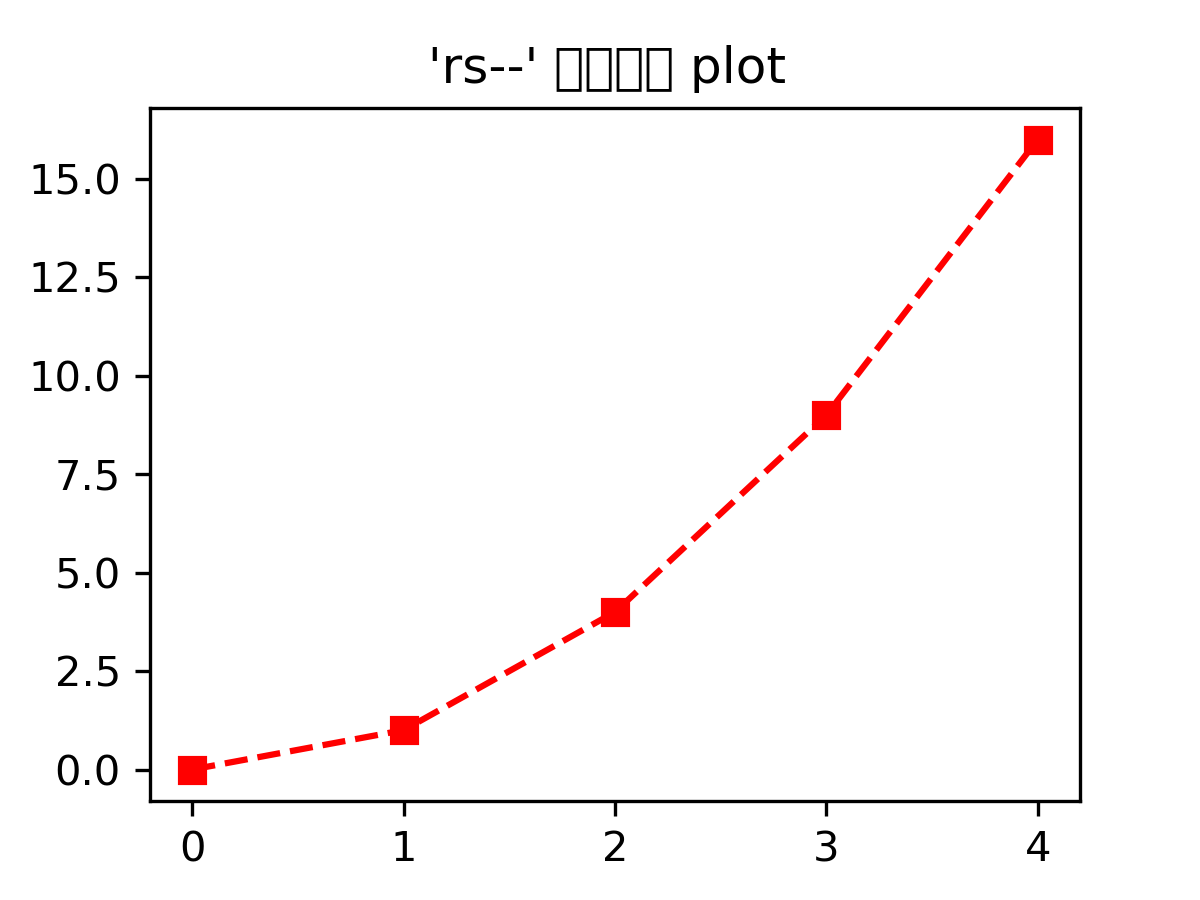
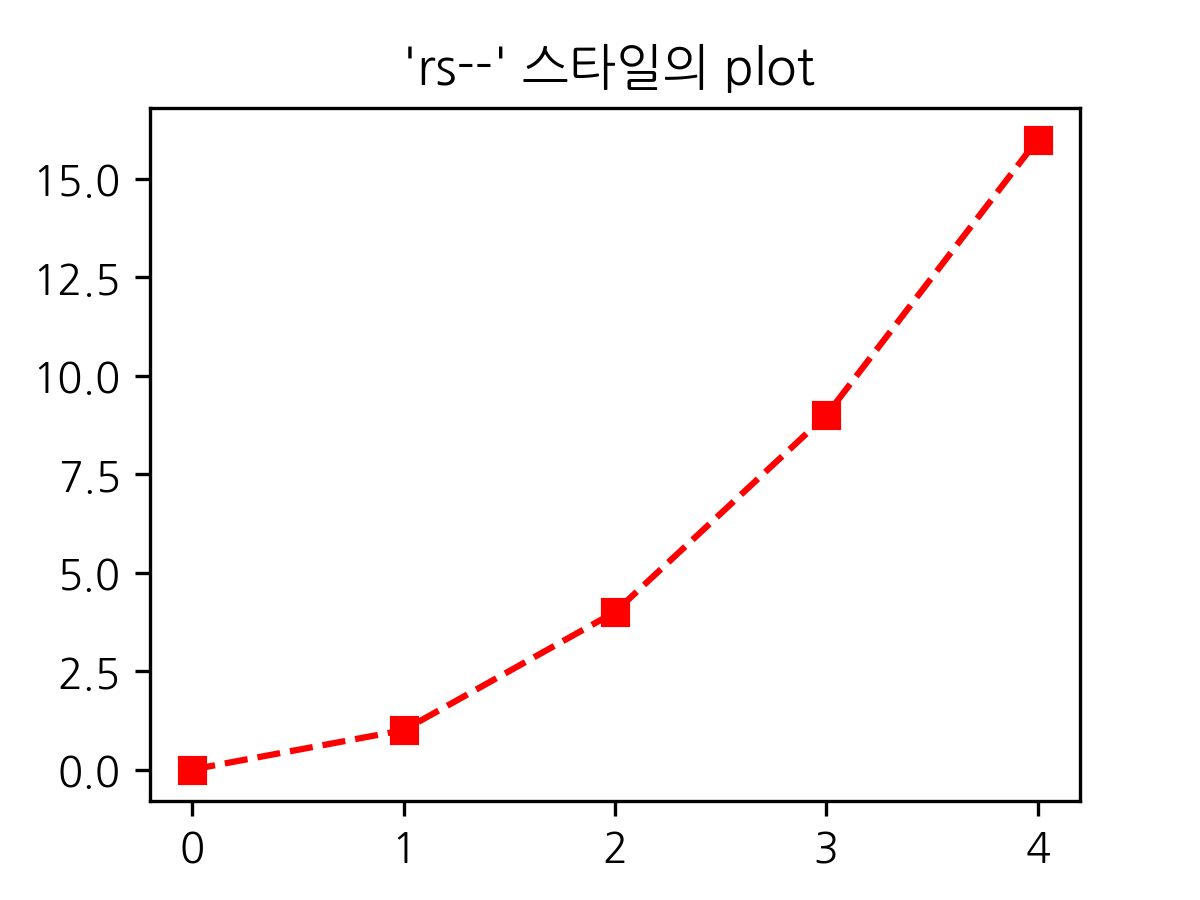
code update

diff --git a/templates/multi_image.html b/templates/multi_image.html
@@ -11,12 +11,12 @@
         <img src="{{url_for('static', filename='img1.png')}}" alt="image1"
         width={{width}}, height={{hieght}}>
       </div>
-      <div class="column">
-	<img src="{{url_for('static', filename='img2.png')}}" alt="image1"
+      <div class="column">     
+	<img src="{{url_for('static', filename='img2.png')}}" alt="image2"
         width={{width}}, height={{hieght}}>
       </div>
       <div class="column">
-        <img src="static/img3.png" alt="image1"
+	<img src="{{url_for('static', filename='img3.png')}}" alt="image3"
         width={{width}}, height={{hieght}}>
       </div>
     </div>

diff --git a/hello.py b/hello.py
@@ -4,7 +4,6 @@ from io import BytesIO
 import numpy as np 
 import time 
 
-## macOS의 경우 아래 순서에 따라서 library를 import해줘야 에러없이 잘 됩니다. 
 import matplotlib as mpl
 mpl.use('Agg')
 import matplotlib.pyplot as plt
@@ -75,7 +74,7 @@ def fig1(xsize, ysize):
   """
   file로 저장하는 것이 아니라 binary object에 저장해서 그대로 file을 넘겨준다고 생각하면 됨
   """
-  img1 = BytesIO()
+  #img1 = BytesIO()
   plt.savefig('static/img1.png', format='png', dpi=300)
   #img1.seek(0)## object를 읽었기 때문에 처음으로 돌아가줌
   #return send_file('img1.png', mimetype='image/png')
@@ -90,7 +89,7 @@ def fig2(xsize, ysize):
   """
   file로 저장하는 것이 아니라 binary object에 저장해서 그대로 file을 넘겨준다고 생각하면 됨
   """
-  img2 = BytesIO()
+  #img2 = BytesIO()
   plt.savefig('static/img2.png', format='png', dpi=300)
   #img2.seek(0)## object를 읽었기 때문에 처음으로 돌아가줌
   #return send_file('img2, mimetype='image/png')
